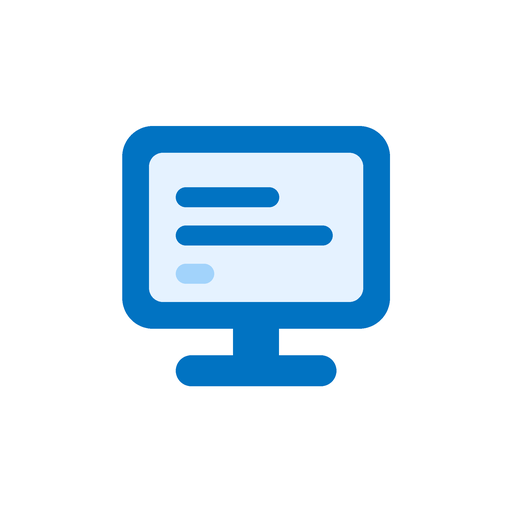
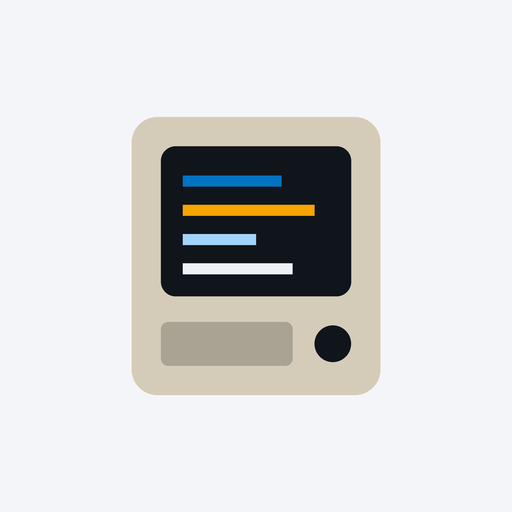
Integra el ordenador compacto como identidad e iconos de la web

Changed region(s): [[0.2188, 0.2188, 0.7812, 0.7812]]

diff --git a/docs/017/index.html b/docs/017/index.html
@@ -13,11 +13,13 @@
   <meta property="og:url" content="https://museo.s8a.es/017/">
   <meta property="og:image" content="https://museo.s8a.es/images/piezas/017/coleccion-1400.webp">
   <meta name="theme-color" content="#ffffff">
-  <link rel="icon" href="/museo-informatica/favicon.ico" sizes="48x48">
-  <link rel="icon" href="/museo-informatica/assets/favicon.svg?v=048e927d7c" type="image/svg+xml">
-  <link rel="apple-touch-icon" href="/museo-informatica/assets/apple-touch-icon.png?v=61b34a6d96">
-  <link rel="manifest" href="/museo-informatica/assets/site.webmanifest?v=08540e10d1">
-  <link rel="stylesheet" href="/museo-informatica/assets/museo.css?v=87dde00698">
+  <link rel="icon" href="/museo-informatica/favicon.ico?v=409f1a50c7" sizes="16x16 32x32 48x48">
+  <link rel="icon" href="/museo-informatica/assets/favicon-16x16.png?v=37a59c3b4e" type="image/png" sizes="16x16">
+  <link rel="icon" href="/museo-informatica/assets/favicon-32x32.png?v=36cf6cbe71" type="image/png" sizes="32x32">
+  <link rel="icon" href="/museo-informatica/assets/favicon.svg?v=57c0806d83" type="image/svg+xml" sizes="any">
+  <link rel="apple-touch-icon" href="/museo-informatica/assets/apple-touch-icon.png?v=a319b9cbcc" sizes="180x180">
+  <link rel="manifest" href="/museo-informatica/assets/site.webmanifest?v=eb7d02f233">
+  <link rel="stylesheet" href="/museo-informatica/assets/museo.css?v=284030e0f2">
   <script src="/museo-informatica/assets/museo.js?v=f930753d2c" defer></script>
 </head>
 <body class="pagina-ficha">
@@ -25,7 +27,7 @@
   <a class="saltar" href="#contenido">Saltar al contenido</a>
   <header class="barra">
     <div class="barra__interior">
-      <a class="barra__marca" href="/museo-informatica/"><img src="/museo-informatica/assets/logo.svg?v=048e927d7c" alt="" width="28" height="28"><span class="barra__nombre">Museo de Informática S8A</span><span class="barra__corto" aria-hidden="true">Museo S8A</span></a>
+      <a class="barra__marca" href="/museo-informatica/"><img src="/museo-informatica/assets/favicon.svg?v=57c0806d83" alt="" width="32" height="32"><span class="barra__nombre">Museo de Informática S8A</span><span class="barra__corto" aria-hidden="true">Museo S8A</span></a>
       <div class="barra__derecha">
         <nav class="menu" aria-label="Menú principal"><a href="/museo-informatica/inventario/">Inventario</a></nav>
         <div class="busqueda">

diff --git a/docs/001/index.html b/docs/001/index.html
@@ -13,11 +13,13 @@
   <meta property="og:url" content="https://museo.s8a.es/001/">
   <meta property="og:image" content="https://museo.s8a.es/images/piezas/001/frontal-1400.webp">
   <meta name="theme-color" content="#ffffff">
-  <link rel="icon" href="/museo-informatica/favicon.ico" sizes="48x48">
-  <link rel="icon" href="/museo-informatica/assets/favicon.svg?v=048e927d7c" type="image/svg+xml">
-  <link rel="apple-touch-icon" href="/museo-informatica/assets/apple-touch-icon.png?v=61b34a6d96">
-  <link rel="manifest" href="/museo-informatica/assets/site.webmanifest?v=08540e10d1">
-  <link rel="stylesheet" href="/museo-informatica/assets/museo.css?v=87dde00698">
+  <link rel="icon" href="/museo-informatica/favicon.ico?v=409f1a50c7" sizes="16x16 32x32 48x48">
+  <link rel="icon" href="/museo-informatica/assets/favicon-16x16.png?v=37a59c3b4e" type="image/png" sizes="16x16">
+  <link rel="icon" href="/museo-informatica/assets/favicon-32x32.png?v=36cf6cbe71" type="image/png" sizes="32x32">
+  <link rel="icon" href="/museo-informatica/assets/favicon.svg?v=57c0806d83" type="image/svg+xml" sizes="any">
+  <link rel="apple-touch-icon" href="/museo-informatica/assets/apple-touch-icon.png?v=a319b9cbcc" sizes="180x180">
+  <link rel="manifest" href="/museo-informatica/assets/site.webmanifest?v=eb7d02f233">
+  <link rel="stylesheet" href="/museo-informatica/assets/museo.css?v=284030e0f2">
   <script src="/museo-informatica/assets/museo.js?v=f930753d2c" defer></script>
 </head>
 <body class="pagina-ficha">
@@ -25,7 +27,7 @@
   <a class="saltar" href="#contenido">Saltar al contenido</a>
   <header class="barra">
     <div class="barra__interior">
-      <a class="barra__marca" href="/museo-informatica/"><img src="/museo-informatica/assets/logo.svg?v=048e927d7c" alt="" width="28" height="28"><span class="barra__nombre">Museo de Informática S8A</span><span class="barra__corto" aria-hidden="true">Museo S8A</span></a>
+      <a class="barra__marca" href="/museo-informatica/"><img src="/museo-informatica/assets/favicon.svg?v=57c0806d83" alt="" width="32" height="32"><span class="barra__nombre">Museo de Informática S8A</span><span class="barra__corto" aria-hidden="true">Museo S8A</span></a>
       <div class="barra__derecha">
         <nav class="menu" aria-label="Menú principal"><a href="/museo-informatica/inventario/">Inventario</a></nav>
         <div class="busqueda">

diff --git a/docs/004/index.html b/docs/004/index.html
@@ -13,11 +13,13 @@
   <meta property="og:url" content="https://museo.s8a.es/004/">
   <meta property="og:image" content="https://museo.s8a.es/images/piezas/004/delante-1400.webp">
   <meta name="theme-color" content="#ffffff">
-  <link rel="icon" href="/museo-informatica/favicon.ico" sizes="48x48">
-  <link rel="icon" href="/museo-informatica/assets/favicon.svg?v=048e927d7c" type="image/svg+xml">
-  <link rel="apple-touch-icon" href="/museo-informatica/assets/apple-touch-icon.png?v=61b34a6d96">
-  <link rel="manifest" href="/museo-informatica/assets/site.webmanifest?v=08540e10d1">
-  <link rel="stylesheet" href="/museo-informatica/assets/museo.css?v=87dde00698">
+  <link rel="icon" href="/museo-informatica/favicon.ico?v=409f1a50c7" sizes="16x16 32x32 48x48">
+  <link rel="icon" href="/museo-informatica/assets/favicon-16x16.png?v=37a59c3b4e" type="image/png" sizes="16x16">
+  <link rel="icon" href="/museo-informatica/assets/favicon-32x32.png?v=36cf6cbe71" type="image/png" sizes="32x32">
+  <link rel="icon" href="/museo-informatica/assets/favicon.svg?v=57c0806d83" type="image/svg+xml" sizes="any">
+  <link rel="apple-touch-icon" href="/museo-informatica/assets/apple-touch-icon.png?v=a319b9cbcc" sizes="180x180">
+  <link rel="manifest" href="/museo-informatica/assets/site.webmanifest?v=eb7d02f233">
+  <link rel="stylesheet" href="/museo-informatica/assets/museo.css?v=284030e0f2">
   <script src="/museo-informatica/assets/museo.js?v=f930753d2c" defer></script>
 </head>
 <body class="pagina-ficha">
@@ -25,7 +27,7 @@
   <a class="saltar" href="#contenido">Saltar al contenido</a>
   <header class="barra">
     <div class="barra__interior">
-      <a class="barra__marca" href="/museo-informatica/"><img src="/museo-informatica/assets/logo.svg?v=048e927d7c" alt="" width="28" height="28"><span class="barra__nombre">Museo de Informática S8A</span><span class="barra__corto" aria-hidden="true">Museo S8A</span></a>
+      <a class="barra__marca" href="/museo-informatica/"><img src="/museo-informatica/assets/favicon.svg?v=57c0806d83" alt="" width="32" height="32"><span class="barra__nombre">Museo de Informática S8A</span><span class="barra__corto" aria-hidden="true">Museo S8A</span></a>
       <div class="barra__derecha">
         <nav class="menu" aria-label="Menú principal"><a href="/museo-informatica/inventario/">Inventario</a></nav>
         <div class="busqueda">

diff --git a/docs/009/index.html b/docs/009/index.html
@@ -13,11 +13,13 @@
   <meta property="og:url" content="https://museo.s8a.es/009/">
   <meta property="og:image" content="https://museo.s8a.es/images/piezas/009/tarjeta-1400.webp">
   <meta name="theme-color" content="#ffffff">
-  <link rel="icon" href="/museo-informatica/favicon.ico" sizes="48x48">
-  <link rel="icon" href="/museo-informatica/assets/favicon.svg?v=048e927d7c" type="image/svg+xml">
-  <link rel="apple-touch-icon" href="/museo-informatica/assets/apple-touch-icon.png?v=61b34a6d96">
-  <link rel="manifest" href="/museo-informatica/assets/site.webmanifest?v=08540e10d1">
-  <link rel="stylesheet" href="/museo-informatica/assets/museo.css?v=87dde00698">
+  <link rel="icon" href="/museo-informatica/favicon.ico?v=409f1a50c7" sizes="16x16 32x32 48x48">
+  <link rel="icon" href="/museo-informatica/assets/favicon-16x16.png?v=37a59c3b4e" type="image/png" sizes="16x16">
+  <link rel="icon" href="/museo-informatica/assets/favicon-32x32.png?v=36cf6cbe71" type="image/png" sizes="32x32">
+  <link rel="icon" href="/museo-informatica/assets/favicon.svg?v=57c0806d83" type="image/svg+xml" sizes="any">
+  <link rel="apple-touch-icon" href="/museo-informatica/assets/apple-touch-icon.png?v=a319b9cbcc" sizes="180x180">
+  <link rel="manifest" href="/museo-informatica/assets/site.webmanifest?v=eb7d02f233">
+  <link rel="stylesheet" href="/museo-informatica/assets/museo.css?v=284030e0f2">
   <script src="/museo-informatica/assets/museo.js?v=f930753d2c" defer></script>
 </head>
 <body class="pagina-ficha">
@@ -25,7 +27,7 @@
   <a class="saltar" href="#contenido">Saltar al contenido</a>
   <header class="barra">
     <div class="barra__interior">
-      <a class="barra__marca" href="/museo-informatica/"><img src="/museo-informatica/assets/logo.svg?v=048e927d7c" alt="" width="28" height="28"><span class="barra__nombre">Museo de Informática S8A</span><span class="barra__corto" aria-hidden="true">Museo S8A</span></a>
+      <a class="barra__marca" href="/museo-informatica/"><img src="/museo-informatica/assets/favicon.svg?v=57c0806d83" alt="" width="32" height="32"><span class="barra__nombre">Museo de Informática S8A</span><span class="barra__corto" aria-hidden="true">Museo S8A</span></a>
       <div class="barra__derecha">
         <nav class="menu" aria-label="Menú principal"><a href="/museo-informatica/inventario/">Inventario</a></nav>
         <div class="busqueda">

diff --git a/docs/010/index.html b/docs/010/index.html
@@ -13,11 +13,13 @@
   <meta property="og:url" content="https://museo.s8a.es/010/">
   <meta property="og:image" content="https://museo.s8a.es/images/piezas/010/tarjeta-1400.webp">
   <meta name="theme-color" content="#ffffff">
-  <link rel="icon" href="/museo-informatica/favicon.ico" sizes="48x48">
-  <link rel="icon" href="/museo-informatica/assets/favicon.svg?v=048e927d7c" type="image/svg+xml">
-  <link rel="apple-touch-icon" href="/museo-informatica/assets/apple-touch-icon.png?v=61b34a6d96">
-  <link rel="manifest" href="/museo-informatica/assets/site.webmanifest?v=08540e10d1">
-  <link rel="stylesheet" href="/museo-informatica/assets/museo.css?v=87dde00698">
+  <link rel="icon" href="/museo-informatica/favicon.ico?v=409f1a50c7" sizes="16x16 32x32 48x48">
+  <link rel="icon" href="/museo-informatica/assets/favicon-16x16.png?v=37a59c3b4e" type="image/png" sizes="16x16">
+  <link rel="icon" href="/museo-informatica/assets/favicon-32x32.png?v=36cf6cbe71" type="image/png" sizes="32x32">
+  <link rel="icon" href="/museo-informatica/assets/favicon.svg?v=57c0806d83" type="image/svg+xml" sizes="any">
+  <link rel="apple-touch-icon" href="/museo-informatica/assets/apple-touch-icon.png?v=a319b9cbcc" sizes="180x180">
+  <link rel="manifest" href="/museo-informatica/assets/site.webmanifest?v=eb7d02f233">
+  <link rel="stylesheet" href="/museo-informatica/assets/museo.css?v=284030e0f2">
   <script src="/museo-informatica/assets/museo.js?v=f930753d2c" defer></script>
 </head>
 <body class="pagina-ficha">
@@ -25,7 +27,7 @@
   <a class="saltar" href="#contenido">Saltar al contenido</a>
   <header class="barra">
     <div class="barra__interior">
-      <a class="barra__marca" href="/museo-informatica/"><img src="/museo-informatica/assets/logo.svg?v=048e927d7c" alt="" width="28" height="28"><span class="barra__nombre">Museo de Informática S8A</span><span class="barra__corto" aria-hidden="true">Museo S8A</span></a>
+      <a class="barra__marca" href="/museo-informatica/"><img src="/museo-informatica/assets/favicon.svg?v=57c0806d83" alt="" width="32" height="32"><span class="barra__nombre">Museo de Informática S8A</span><span class="barra__corto" aria-hidden="true">Museo S8A</span></a>
       <div class="barra__derecha">
         <nav class="menu" aria-label="Menú principal"><a href="/museo-informatica/inventario/">Inventario</a></nav>
         <div class="busqueda">

diff --git a/docs/011/index.html b/docs/011/index.html
@@ -13,11 +13,13 @@
   <meta property="og:url" content="https://museo.s8a.es/011/">
   <meta property="og:image" content="https://museo.s8a.es/images/piezas/011/tarjeta-1400.webp">
   <meta name="theme-color" content="#ffffff">
-  <link rel="icon" href="/museo-informatica/favicon.ico" sizes="48x48">
-  <link rel="icon" href="/museo-informatica/assets/favicon.svg?v=048e927d7c" type="image/svg+xml">
-  <link rel="apple-touch-icon" href="/museo-informatica/assets/apple-touch-icon.png?v=61b34a6d96">
-  <link rel="manifest" href="/museo-informatica/assets/site.webmanifest?v=08540e10d1">
-  <link rel="stylesheet" href="/museo-informatica/assets/museo.css?v=87dde00698">
+  <link rel="icon" href="/museo-informatica/favicon.ico?v=409f1a50c7" sizes="16x16 32x32 48x48">
+  <link rel="icon" href="/museo-informatica/assets/favicon-16x16.png?v=37a59c3b4e" type="image/png" sizes="16x16">
+  <link rel="icon" href="/museo-informatica/assets/favicon-32x32.png?v=36cf6cbe71" type="image/png" sizes="32x32">
+  <link rel="icon" href="/museo-informatica/assets/favicon.svg?v=57c0806d83" type="image/svg+xml" sizes="any">
+  <link rel="apple-touch-icon" href="/museo-informatica/assets/apple-touch-icon.png?v=a319b9cbcc" sizes="180x180">
+  <link rel="manifest" href="/museo-informatica/assets/site.webmanifest?v=eb7d02f233">
+  <link rel="stylesheet" href="/museo-informatica/assets/museo.css?v=284030e0f2">
   <script src="/museo-informatica/assets/museo.js?v=f930753d2c" defer></script>
 </head>
 <body class="pagina-ficha">
@@ -25,7 +27,7 @@
   <a class="saltar" href="#contenido">Saltar al contenido</a>
   <header class="barra">
     <div class="barra__interior">
-      <a class="barra__marca" href="/museo-informatica/"><img src="/museo-informatica/assets/logo.svg?v=048e927d7c" alt="" width="28" height="28"><span class="barra__nombre">Museo de Informática S8A</span><span class="barra__corto" aria-hidden="true">Museo S8A</span></a>
+      <a class="barra__marca" href="/museo-informatica/"><img src="/museo-informatica/assets/favicon.svg?v=57c0806d83" alt="" width="32" height="32"><span class="barra__nombre">Museo de Informática S8A</span><span class="barra__corto" aria-hidden="true">Museo S8A</span></a>
       <div class="barra__derecha">
         <nav class="menu" aria-label="Menú principal"><a href="/museo-informatica/inventario/">Inventario</a></nav>
         <div class="busqueda">

diff --git a/docs/012/index.html b/docs/012/index.html
@@ -13,11 +13,13 @@
   <meta property="og:url" content="https://museo.s8a.es/012/">
   <meta property="og:image" content="https://museo.s8a.es/images/piezas/012/tarjeta-1400.webp">
   <meta name="theme-color" content="#ffffff">
-  <link rel="icon" href="/museo-informatica/favicon.ico" sizes="48x48">
-  <link rel="icon" href="/museo-informatica/assets/favicon.svg?v=048e927d7c" type="image/svg+xml">
-  <link rel="apple-touch-icon" href="/museo-informatica/assets/apple-touch-icon.png?v=61b34a6d96">
-  <link rel="manifest" href="/museo-informatica/assets/site.webmanifest?v=08540e10d1">
-  <link rel="stylesheet" href="/museo-informatica/assets/museo.css?v=87dde00698">
+  <link rel="icon" href="/museo-informatica/favicon.ico?v=409f1a50c7" sizes="16x16 32x32 48x48">
+  <link rel="icon" href="/museo-informatica/assets/favicon-16x16.png?v=37a59c3b4e" type="image/png" sizes="16x16">
+  <link rel="icon" href="/museo-informatica/assets/favicon-32x32.png?v=36cf6cbe71" type="image/png" sizes="32x32">
+  <link rel="icon" href="/museo-informatica/assets/favicon.svg?v=57c0806d83" type="image/svg+xml" sizes="any">
+  <link rel="apple-touch-icon" href="/museo-informatica/assets/apple-touch-icon.png?v=a319b9cbcc" sizes="180x180">
+  <link rel="manifest" href="/museo-informatica/assets/site.webmanifest?v=eb7d02f233">
+  <link rel="stylesheet" href="/museo-informatica/assets/museo.css?v=284030e0f2">
   <script src="/museo-informatica/assets/museo.js?v=f930753d2c" defer></script>
 </head>
 <body class="pagina-ficha">
@@ -25,7 +27,7 @@
   <a class="saltar" href="#contenido">Saltar al contenido</a>
   <header class="barra">
     <div class="barra__interior">
-      <a class="barra__marca" href="/museo-informatica/"><img src="/museo-informatica/assets/logo.svg?v=048e927d7c" alt="" width="28" height="28"><span class="barra__nombre">Museo de Informática S8A</span><span class="barra__corto" aria-hidden="true">Museo S8A</span></a>
+      <a class="barra__marca" href="/museo-informatica/"><img src="/museo-informatica/assets/favicon.svg?v=57c0806d83" alt="" width="32" height="32"><span class="barra__nombre">Museo de Informática S8A</span><span class="barra__corto" aria-hidden="true">Museo S8A</span></a>
       <div class="barra__derecha">
         <nav class="menu" aria-label="Menú principal"><a href="/museo-informatica/inventario/">Inventario</a></nav>
         <div class="busqueda">

diff --git a/docs/013/index.html b/docs/013/index.html
@@ -13,11 +13,13 @@
   <meta property="og:url" content="https://museo.s8a.es/013/">
   <meta property="og:image" content="https://museo.s8a.es/images/piezas/013/tarjeta-1400.webp">
   <meta name="theme-color" content="#ffffff">
-  <link rel="icon" href="/museo-informatica/favicon.ico" sizes="48x48">
-  <link rel="icon" href="/museo-informatica/assets/favicon.svg?v=048e927d7c" type="image/svg+xml">
-  <link rel="apple-touch-icon" href="/museo-informatica/assets/apple-touch-icon.png?v=61b34a6d96">
-  <link rel="manifest" href="/museo-informatica/assets/site.webmanifest?v=08540e10d1">
-  <link rel="stylesheet" href="/museo-informatica/assets/museo.css?v=87dde00698">
+  <link rel="icon" href="/museo-informatica/favicon.ico?v=409f1a50c7" sizes="16x16 32x32 48x48">
+  <link rel="icon" href="/museo-informatica/assets/favicon-16x16.png?v=37a59c3b4e" type="image/png" sizes="16x16">
+  <link rel="icon" href="/museo-informatica/assets/favicon-32x32.png?v=36cf6cbe71" type="image/png" sizes="32x32">
+  <link rel="icon" href="/museo-informatica/assets/favicon.svg?v=57c0806d83" type="image/svg+xml" sizes="any">
+  <link rel="apple-touch-icon" href="/museo-informatica/assets/apple-touch-icon.png?v=a319b9cbcc" sizes="180x180">
+  <link rel="manifest" href="/museo-informatica/assets/site.webmanifest?v=eb7d02f233">
+  <link rel="stylesheet" href="/museo-informatica/assets/museo.css?v=284030e0f2">
   <script src="/museo-informatica/assets/museo.js?v=f930753d2c" defer></script>
 </head>
 <body class="pagina-ficha">
@@ -25,7 +27,7 @@
   <a class="saltar" href="#contenido">Saltar al contenido</a>
   <header class="barra">
     <div class="barra__interior">
-      <a class="barra__marca" href="/museo-informatica/"><img src="/museo-informatica/assets/logo.svg?v=048e927d7c" alt="" width="28" height="28"><span class="barra__nombre">Museo de Informática S8A</span><span class="barra__corto" aria-hidden="true">Museo S8A</span></a>
+      <a class="barra__marca" href="/museo-informatica/"><img src="/museo-informatica/assets/favicon.svg?v=57c0806d83" alt="" width="32" height="32"><span class="barra__nombre">Museo de Informática S8A</span><span class="barra__corto" aria-hidden="true">Museo S8A</span></a>
       <div class="barra__derecha">
         <nav class="menu" aria-label="Menú principal"><a href="/museo-informatica/inventario/">Inventario</a></nav>
         <div class="busqueda">

diff --git a/docs/014/index.html b/docs/014/index.html
@@ -13,11 +13,13 @@
   <meta property="og:url" content="https://museo.s8a.es/014/">
   <meta property="og:image" content="https://museo.s8a.es/images/piezas/014/tarjeta-1400.webp">
   <meta name="theme-color" content="#ffffff">
-  <link rel="icon" href="/museo-informatica/favicon.ico" sizes="48x48">
-  <link rel="icon" href="/museo-informatica/assets/favicon.svg?v=048e927d7c" type="image/svg+xml">
-  <link rel="apple-touch-icon" href="/museo-informatica/assets/apple-touch-icon.png?v=61b34a6d96">
-  <link rel="manifest" href="/museo-informatica/assets/site.webmanifest?v=08540e10d1">
-  <link rel="stylesheet" href="/museo-informatica/assets/museo.css?v=87dde00698">
+  <link rel="icon" href="/museo-informatica/favicon.ico?v=409f1a50c7" sizes="16x16 32x32 48x48">
+  <link rel="icon" href="/museo-informatica/assets/favicon-16x16.png?v=37a59c3b4e" type="image/png" sizes="16x16">
+  <link rel="icon" href="/museo-informatica/assets/favicon-32x32.png?v=36cf6cbe71" type="image/png" sizes="32x32">
+  <link rel="icon" href="/museo-informatica/assets/favicon.svg?v=57c0806d83" type="image/svg+xml" sizes="any">
+  <link rel="apple-touch-icon" href="/museo-informatica/assets/apple-touch-icon.png?v=a319b9cbcc" sizes="180x180">
+  <link rel="manifest" href="/museo-informatica/assets/site.webmanifest?v=eb7d02f233">
+  <link rel="stylesheet" href="/museo-informatica/assets/museo.css?v=284030e0f2">
   <script src="/museo-informatica/assets/museo.js?v=f930753d2c" defer></script>
 </head>
 <body class="pagina-ficha">
@@ -25,7 +27,7 @@
   <a class="saltar" href="#contenido">Saltar al contenido</a>
   <header class="barra">
     <div class="barra__interior">
-      <a class="barra__marca" href="/museo-informatica/"><img src="/museo-informatica/assets/logo.svg?v=048e927d7c" alt="" width="28" height="28"><span class="barra__nombre">Museo de Informática S8A</span><span class="barra__corto" aria-hidden="true">Museo S8A</span></a>
+      <a class="barra__marca" href="/museo-informatica/"><img src="/museo-informatica/assets/favicon.svg?v=57c0806d83" alt="" width="32" height="32"><span class="barra__nombre">Museo de Informática S8A</span><span class="barra__corto" aria-hidden="true">Museo S8A</span></a>
       <div class="barra__derecha">
         <nav class="menu" aria-label="Menú principal"><a href="/museo-informatica/inventario/">Inventario</a></nav>
         <div class="busqueda">

diff --git a/docs/015/index.html b/docs/015/index.html
@@ -13,11 +13,13 @@
   <meta property="og:url" content="https://museo.s8a.es/015/">
   <meta property="og:image" content="https://museo.s8a.es/images/piezas/015/tarjeta-1400.webp">
   <meta name="theme-color" content="#ffffff">
-  <link rel="icon" href="/museo-informatica/favicon.ico" sizes="48x48">
-  <link rel="icon" href="/museo-informatica/assets/favicon.svg?v=048e927d7c" type="image/svg+xml">
-  <link rel="apple-touch-icon" href="/museo-informatica/assets/apple-touch-icon.png?v=61b34a6d96">
-  <link rel="manifest" href="/museo-informatica/assets/site.webmanifest?v=08540e10d1">
-  <link rel="stylesheet" href="/museo-informatica/assets/museo.css?v=87dde00698">
+  <link rel="icon" href="/museo-informatica/favicon.ico?v=409f1a50c7" sizes="16x16 32x32 48x48">
+  <link rel="icon" href="/museo-informatica/assets/favicon-16x16.png?v=37a59c3b4e" type="image/png" sizes="16x16">
+  <link rel="icon" href="/museo-informatica/assets/favicon-32x32.png?v=36cf6cbe71" type="image/png" sizes="32x32">
+  <link rel="icon" href="/museo-informatica/assets/favicon.svg?v=57c0806d83" type="image/svg+xml" sizes="any">
+  <link rel="apple-touch-icon" href="/museo-informatica/assets/apple-touch-icon.png?v=a319b9cbcc" sizes="180x180">
+  <link rel="manifest" href="/museo-informatica/assets/site.webmanifest?v=eb7d02f233">
+  <link rel="stylesheet" href="/museo-informatica/assets/museo.css?v=284030e0f2">
   <script src="/museo-informatica/assets/museo.js?v=f930753d2c" defer></script>
 </head>
 <body class="pagina-ficha">
@@ -25,7 +27,7 @@
   <a class="saltar" href="#contenido">Saltar al contenido</a>
   <header class="barra">
     <div class="barra__interior">
-      <a class="barra__marca" href="/museo-informatica/"><img src="/museo-informatica/assets/logo.svg?v=048e927d7c" alt="" width="28" height="28"><span class="barra__nombre">Museo de Informática S8A</span><span class="barra__corto" aria-hidden="true">Museo S8A</span></a>
+      <a class="barra__marca" href="/museo-informatica/"><img src="/museo-informatica/assets/favicon.svg?v=57c0806d83" alt="" width="32" height="32"><span class="barra__nombre">Museo de Informática S8A</span><span class="barra__corto" aria-hidden="true">Museo S8A</span></a>
       <div class="barra__derecha">
         <nav class="menu" aria-label="Menú principal"><a href="/museo-informatica/inventario/">Inventario</a></nav>
         <div class="busqueda">

diff --git a/docs/016/index.html b/docs/016/index.html
@@ -13,11 +13,13 @@
   <meta property="og:url" content="https://museo.s8a.es/016/">
   <meta property="og:image" content="https://museo.s8a.es/images/piezas/016/tarjeta-1400.webp">
   <meta name="theme-color" content="#ffffff">
-  <link rel="icon" href="/museo-informatica/favicon.ico" sizes="48x48">
-  <link rel="icon" href="/museo-informatica/assets/favicon.svg?v=048e927d7c" type="image/svg+xml">
-  <link rel="apple-touch-icon" href="/museo-informatica/assets/apple-touch-icon.png?v=61b34a6d96">
-  <link rel="manifest" href="/museo-informatica/assets/site.webmanifest?v=08540e10d1">
-  <link rel="stylesheet" href="/museo-informatica/assets/museo.css?v=87dde00698">
+  <link rel="icon" href="/museo-informatica/favicon.ico?v=409f1a50c7" sizes="16x16 32x32 48x48">
+  <link rel="icon" href="/museo-informatica/assets/favicon-16x16.png?v=37a59c3b4e" type="image/png" sizes="16x16">
+  <link rel="icon" href="/museo-informatica/assets/favicon-32x32.png?v=36cf6cbe71" type="image/png" sizes="32x32">
+  <link rel="icon" href="/museo-informatica/assets/favicon.svg?v=57c0806d83" type="image/svg+xml" sizes="any">
+  <link rel="apple-touch-icon" href="/museo-informatica/assets/apple-touch-icon.png?v=a319b9cbcc" sizes="180x180">
+  <link rel="manifest" href="/museo-informatica/assets/site.webmanifest?v=eb7d02f233">
+  <link rel="stylesheet" href="/museo-informatica/assets/museo.css?v=284030e0f2">
   <script src="/museo-informatica/assets/museo.js?v=f930753d2c" defer></script>
 </head>
 <body class="pagina-ficha">
@@ -25,7 +27,7 @@
   <a class="saltar" href="#contenido">Saltar al contenido</a>
   <header class="barra">
     <div class="barra__interior">
-      <a class="barra__marca" href="/museo-informatica/"><img src="/museo-informatica/assets/logo.svg?v=048e927d7c" alt="" width="28" height="28"><span class="barra__nombre">Museo de Informática S8A</span><span class="barra__corto" aria-hidden="true">Museo S8A</span></a>
+      <a class="barra__marca" href="/museo-informatica/"><img src="/museo-informatica/assets/favicon.svg?v=57c0806d83" alt="" width="32" height="32"><span class="barra__nombre">Museo de Informática S8A</span><span class="barra__corto" aria-hidden="true">Museo S8A</span></a>
       <div class="barra__derecha">
         <nav class="menu" aria-label="Menú principal"><a href="/museo-informatica/inventario/">Inventario</a></nav>
         <div class="busqueda">

diff --git a/docs/002/index.html b/docs/002/index.html
@@ -13,11 +13,13 @@
   <meta property="og:url" content="https://museo.s8a.es/002/">
   <meta property="og:image" content="https://museo.s8a.es/images/piezas/002/frente-1400.webp">
   <meta name="theme-color" content="#ffffff">
-  <link rel="icon" href="/museo-informatica/favicon.ico" sizes="48x48">
-  <link rel="icon" href="/museo-informatica/assets/favicon.svg?v=048e927d7c" type="image/svg+xml">
-  <link rel="apple-touch-icon" href="/museo-informatica/assets/apple-touch-icon.png?v=61b34a6d96">
-  <link rel="manifest" href="/museo-informatica/assets/site.webmanifest?v=08540e10d1">
-  <link rel="stylesheet" href="/museo-informatica/assets/museo.css?v=87dde00698">
+  <link rel="icon" href="/museo-informatica/favicon.ico?v=409f1a50c7" sizes="16x16 32x32 48x48">
+  <link rel="icon" href="/museo-informatica/assets/favicon-16x16.png?v=37a59c3b4e" type="image/png" sizes="16x16">
+  <link rel="icon" href="/museo-informatica/assets/favicon-32x32.png?v=36cf6cbe71" type="image/png" sizes="32x32">
+  <link rel="icon" href="/museo-informatica/assets/favicon.svg?v=57c0806d83" type="image/svg+xml" sizes="any">
+  <link rel="apple-touch-icon" href="/museo-informatica/assets/apple-touch-icon.png?v=a319b9cbcc" sizes="180x180">
+  <link rel="manifest" href="/museo-informatica/assets/site.webmanifest?v=eb7d02f233">
+  <link rel="stylesheet" href="/museo-informatica/assets/museo.css?v=284030e0f2">
   <script src="/museo-informatica/assets/museo.js?v=f930753d2c" defer></script>
 </head>
 <body class="pagina-ficha">
@@ -25,7 +27,7 @@
   <a class="saltar" href="#contenido">Saltar al contenido</a>
   <header class="barra">
     <div class="barra__interior">
-      <a class="barra__marca" href="/museo-informatica/"><img src="/museo-informatica/assets/logo.svg?v=048e927d7c" alt="" width="28" height="28"><span class="barra__nombre">Museo de Informática S8A</span><span class="barra__corto" aria-hidden="true">Museo S8A</span></a>
+      <a class="barra__marca" href="/museo-informatica/"><img src="/museo-informatica/assets/favicon.svg?v=57c0806d83" alt="" width="32" height="32"><span class="barra__nombre">Museo de Informática S8A</span><span class="barra__corto" aria-hidden="true">Museo S8A</span></a>
       <div class="barra__derecha">
         <nav class="menu" aria-label="Menú principal"><a href="/museo-informatica/inventario/">Inventario</a></nav>
         <div class="busqueda">
